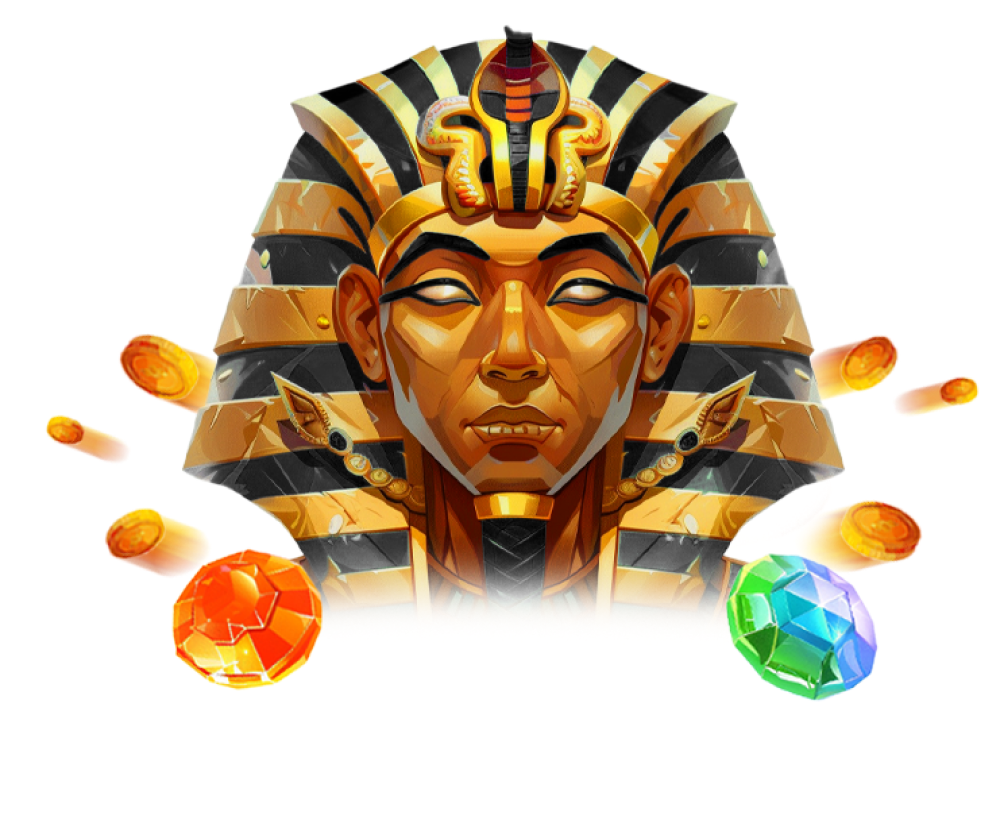
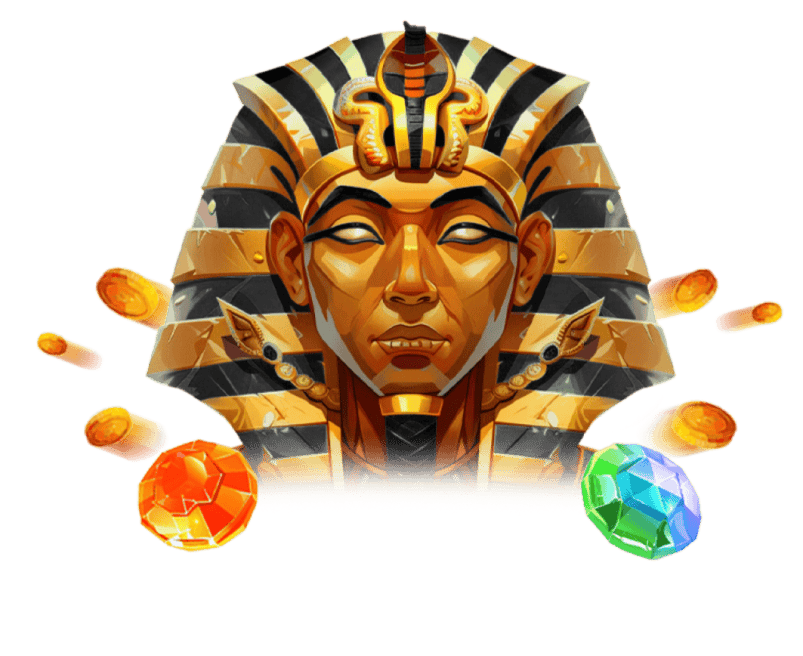
Compressed Images Added

diff --git a/src/util/AssetsPack.js b/src/util/AssetsPack.js
@@ -19,7 +19,7 @@ const AssetPack = {
     BLUE_DIAGONAL_GRADIENT: require("./../assets/image/blue_diagonal_gradient.png"),
     GOLDEN_BACKGROUND_GRADIENT: require("./../assets/image/highlightBackgroundGradient.svg"),
     BLUE_BACKGROUND_CARD: require("./../assets/image/resultsCard.svg"),
-    GOLD_RUSH: require("./../assets/image/gold_rush.png"),
+    GOLD_RUSH: require("./../assets/image/gold_rush.jpg"),
   },
   videos: {},
   sounds: {},
